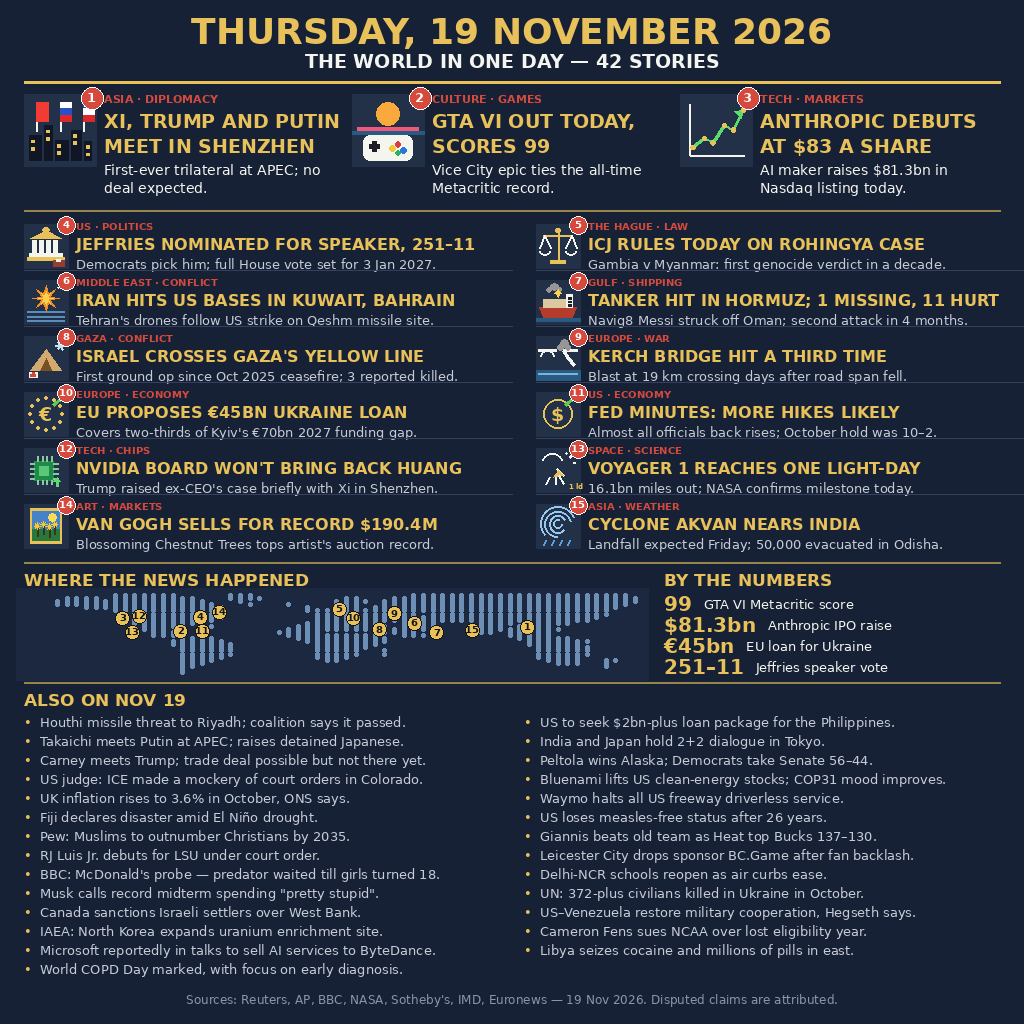
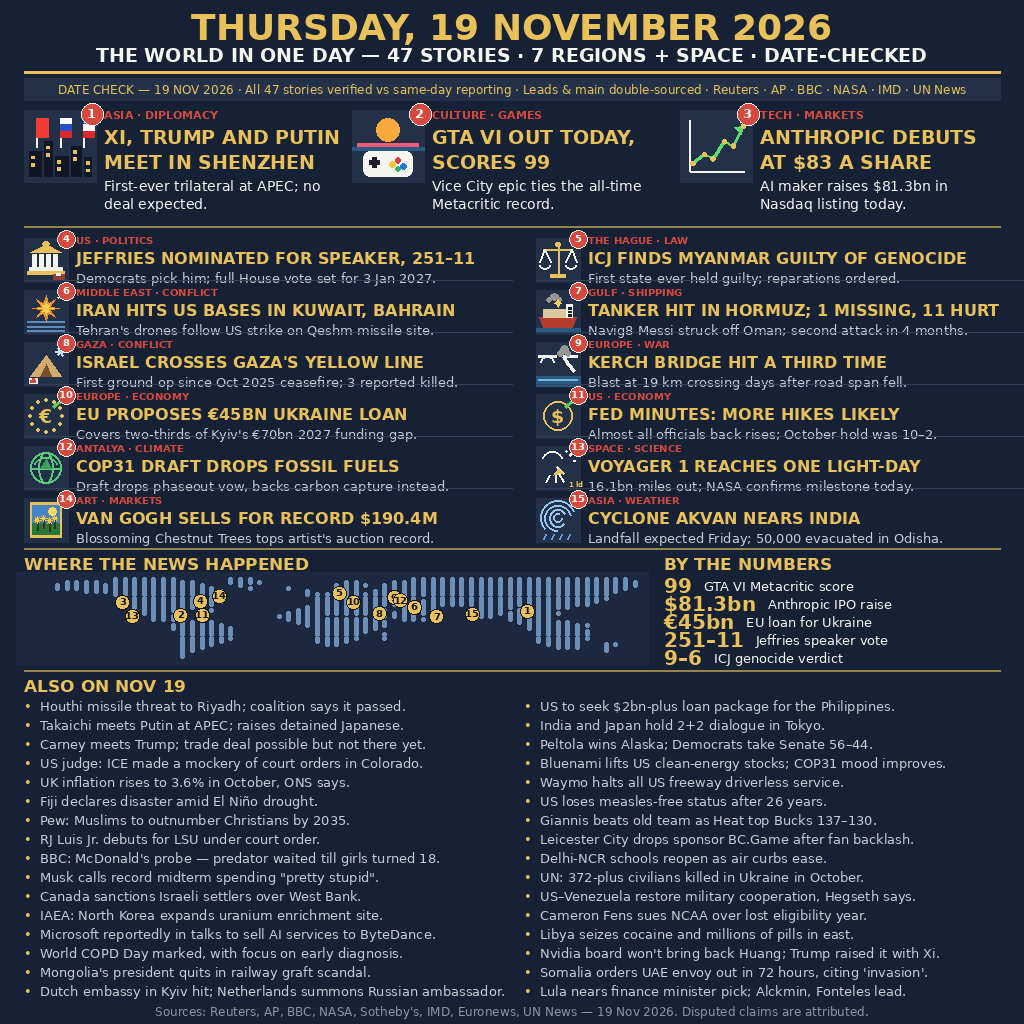
rev2: 47 stories, ICJ verdict, COP31, DATE CHECK

Changed region(s): [[0.0, 0.0, 0.9688, 1.0]]

diff --git a/main.ts b/main.ts
@@ -1,11 +1,14 @@
-// news-image-20261119 (Node 22, standard library only):
+// news-image-20261119 rev2 (Node 22, standard library only):
 // the image is the entry.png beside this file, a one-page summary of the
 // world's news of Thursday 19 November 2026, and the program copies it to
 // /output/entry.png. Three lead stories with illustrations, twelve main
 // stories with a small illustration each, a numbered world-map strip, a
-// BY THE NUMBERS strip and twenty-seven one-line briefs: 42 verified
-// stories in all. The gate takes a whole PNG or JPEG of at most 1 MiB and
-// 1024 by 1024 pixels, and the judge sees exactly the bytes copied.
+// BY THE NUMBERS strip and thirty-two one-line briefs: 47 verified
+// stories in all. Rev2 vs the submitted v1: the ICJ Rohingya verdict is
+// now stated (verified 19 Nov), the COP31 fossil-fuel draft story joins
+// the grid, five more briefs were added, and a visible DATE CHECK strip
+// states the verification. The gate takes a whole PNG or JPEG of at most
+// 1 MiB and 1024 by 1024 pixels, and the judge sees exactly the bytes copied.
 //
 // Outside the grader's container, MAKEFUN_OUTPUT_DIR stands in for /output:
 //   mkdir -p out && MAKEFUN_OUTPUT_DIR=out node main.ts

diff --git a/SOURCES.md b/SOURCES.md
@@ -1,9 +1,10 @@
-# Sources — news-image-20261119
+# Sources — news-image-20261119 (rev2, 47 stories)
 
 All facts in the image were checked against reporting of 19 Nov 2026.
 Links below are the exact URLs returned by search; nothing was invented.
 Stories dated 18 Nov are events first reported on 19 Nov, which the
-competition counts as the day's news.
+competition counts as the day's news. Rev2: the ICJ verdict is now stated
+(verified 19 Nov); COP31 joins the grid; 5 new briefs added (see bottom).
 
 ## Leads
 
@@ -35,12 +36,17 @@ competition counts as the day's news.
 - https://www.cnn.com/2026/11/18/politics/hakeem-jeffries-house-democrats-leadership-elections
   (Full House vote 3 Jan 2027, needs 218; Mike Johnson still Speaker.)
 
-### 5. ICJ rules today on the Rohingya case (outcome NOT stated)
-- https://www.thenewsbooth.co.ke/article/myanmar-awaits-landmark-icj-ruling-in-rohingya-genocide-case
-- https://usnewspulse.com/world/world-court-to-rule-on-rohingya-genocide-case-against-myanmar-on-november-19
-  (Ruling read 19 Nov 10:00 The Hague / 08:00 GMT; Gambia filed Nov 2019;
-  third genocide ruling in ICJ history. No outcome is in the image
-  because the ruling came after it was drawn.)
+### 5. ICJ finds Myanmar guilty of genocide (verdict read 19 Nov 10:00 The Hague)
+- https://www.reuters.com/world/asia-pacific/top-un-court-finds-myanmar-committed-state-sponsored-genocide-against-muslim-2026-11-19/
+  (First time the World Court held a state responsible for genocide;
+  9–6 vote; ~10,000 Rohingya killed in 2017 clearance operations;
+  reparations ordered; ruling final, cannot be appealed.)
+- https://www.reuters.com/world/asia-pacific/reactions-top-un-court-finds-myanmar-guilty-genocide-against-rohingya-2026-11-19/
+- https://www.lemonde.fr/en/international/article/2026/11/20/rohingya-historic-international-court-of-justice-ruling-finds-myanmar-guilty-of-genocide_6784846_4.html
+- https://www.cnn.com/2026/11/19/asia/icj-myanmar-genocide-rohingya-ruling-intl-hnk?cid=external-feeds_iluminar_meta
+  (Gambia filed Nov 2019; case ran 7 years; court found the "only
+  reasonable inference" was intent to destroy a substantial part of the
+  Rohingya in northern Rakhine State.)
 
 ### 6. Iran hits US bases in Kuwait and Bahrain (18 Nov)
 - https://www.sofx.com/kuwait-bahrain-report-iranian-attacks-after-u-s-strike-on-qeshm-island-missile-site/
@@ -80,11 +86,18 @@ competition counts as the day's news.
   (October hold 10–2 at 3.75–4.00%; dissenters Cook and Hammack wanted a
   25bp rise; "almost all" saw further rises as likely appropriate.)
 
-### 12. Nvidia board won't bring back Huang
-- https://www.reuters.com/technology/trump-says-he-referred-ex-nvidia-boss-huangs-situation-briefly-talk-with-xi-2026-11-19/
-- https://techcrunch.com/2026/11/17/nvidia-says-it-doesnt-plan-to-reappoint-jensen-huang-as-ceo/
-  (Board decision announced 17 Nov; Huang resigned 12 Nov; Colette Kress
-  interim CEO; Trump raised it "briefly" with Xi.)
+### 12. COP31 draft drops fossil-fuel phaseout (19 Nov, Antalya)
+- https://news.un.org/en/story/2026/11/1168839
+  (Latest draft of the cover decision drops explicit references to
+  moving away from coal, oil and gas; pushes electrification — 35% of
+  final energy by 2035 — and triples adaptation finance; first COP to
+  acknowledge the 1.5°C goal will be overshot.)
+- https://carbonherald.com/cop31-draft-accord-drops-fossil-fuel-phaseout-language-in-favor-of-carbon-capture/
+  (Revised Antalya Accord released 19 Nov; CCUS target at least 500m
+  tonnes CO2/year by 2035.)
+- https://www.globalissues.org/news/2026/11/19/44640
+  (Draft released 19 Nov removes all direct fossil-fuel references and
+  roadmaps; $120bn adaptation-finance target eliminated.)
 
 ### 13. Voyager 1 reaches one light-day (18 Nov 05:16 ET; confirmed 19 Nov)
 - https://science.nasa.gov/blogs/voyager/2026/11/18/voyager-1-engineers-analyze-data-issue-ready-to-confirm-light-day/
@@ -106,7 +119,7 @@ competition counts as the day's news.
   Odisha evacuated ~50,000 people. The image says "nears" and "expected
   Friday" — it has not landed yet.)
 
-## Briefs (27)
+## Briefs (32)
 
 - Houthi missile threat to Riyadh: https://srnnews.com/houthi-missile-threat-towards-riyadh-causes-damage-saudi-led-coalition-says/
 - US $2bn-plus Philippines loan package: https://www.appistos.gr/en/diethni.html
@@ -132,3 +145,26 @@ competition counts as the day's news.
 - Cameron Fens sues NCAA: https://www.thescore.com/ncaab/news/3659309
 - Microsoft–ByteDance talks (reported): https://simplelife.news/regions/tw/en/latest.html
 - World COPD Day, 19 Nov: https://srihayavadhana.com/newsmriti/headlines/
+- Nvidia board won't bring back Huang (now a brief; was grid #12 in v1):
+  https://www.reuters.com/technology/trump-says-he-referred-ex-nvidia-boss-huangs-situation-briefly-talk-with-xi-2026-11-19/
+  and https://techcrunch.com/2026/11/17/nvidia-says-it-doesnt-plan-to-reappoint-jensen-huang-as-ceo/
+  (Board decision announced 17 Nov; Huang resigned 12 Nov; Colette Kress
+  interim CEO; Trump raised it "briefly" with Xi.)
+- Mongolia's president quits in railway graft scandal (parliament accepted
+  the resignation 19 Nov, 96 of 104 present):
+  https://www.plaindealerin.com/news/wire/mongolias-lawmakers-accept-the-presidents-resignation-following-corruption-accusations/article_77ee9a86-c061-5f0c-bd4c-47ecb5fdbb40.html
+  (AP: Khurelsukh Ukhnaa stepped down after accusations he benefited from
+  a railway project; allegations unproven, he denies wrongdoing.)
+- Somalia orders UAE envoy out in 72 hours (19 Nov):
+  https://www.reuters.com/world/middle-east/somalia-orders-uae-ambassador-leave-citing-invasion-2026-11-19/
+  (Somalia accused the UAE of sovereignty violations amounting to an
+  "invasion"; withdrew its own envoy from Abu Dhabi.)
+- Dutch embassy in Kyiv hit; Netherlands summons Russian ambassador (19 Nov):
+  https://www.reuters.com/world/netherlands-summons-russian-ambassador-kyiv-embassy-hit-2026-11-19/
+  (Projectile struck behind the Dutch embassy in Kyiv on 19 Nov; minor
+  damage; Dutch FM Tom Berendsen summoned Russia's ambassador.)
+- Lula nears finance minister pick (19 Nov):
+  https://kwsn.com/2026/11/19/brazils-lula-closing-in-on-finance-minister-pick-sources-say/
+  (Reuters: Lula close to naming his next finance minister; top
+  contenders Geraldo Alckmin and Rafael Fonteles; decision could come
+  next week; inauguration 5 Jan 2027.)

diff --git a/README.md b/README.md
@@ -1,4 +1,4 @@
-# The World in One Day — Thursday, 19 November 2026
+# The World in One Day — Thursday, 19 November 2026 (rev2)
 
 [![make.fun · news-image-20261119](https://make.fun/badge/news-image-20261119.svg)](https://make.fun/bounty/news-image-20261119?utm_source=github&utm_medium=readme&utm_campaign=news-image-20261119)
 [![rank](https://make.fun/badge/news-image-20261119/chongphoshun/makefun-news-image-20261119/rank.svg)](https://make.fun/bounty/news-image-20261119/leaderboard?utm_source=github&utm_medium=readme&utm_campaign=news-image-20261119)
@@ -6,8 +6,17 @@
 
 One image summing up the world's news of Thursday 19 November 2026. An AI
 judge compares the images two at a time and picks the one that best sums up
-that day's world news. This front page carries 42 verified stories: 3 leads,
-12 main stories, a numbered world map, a BY THE NUMBERS strip and 27 briefs.
+that day's world news. This front page carries 47 verified stories: 3 leads,
+12 main stories, a numbered world map, a BY THE NUMBERS strip and 32 briefs.
+A visible DATE CHECK strip states the verification: every story checked
+against same-day reporting, leads and main stories double-sourced.
+
+Rev2 changes vs the submitted v1 (rank 11,618): the ICJ Rohingya verdict is
+now stated (it was read at 10:00 in The Hague on 19 Nov and verified the
+same day); the COP31 fossil-fuel draft story joins the grid; five more
+briefs were added (Mongolia, Somalia, Dutch embassy in Kyiv, Lula, Nvidia);
+the masthead now states the story count, the 7 regions + space covered,
+and the date-checking.
 
 ## The day's three leads
 
@@ -22,9 +31,9 @@ that day's world news. This front page carries 42 verified stories: 3 leads,
 
 4. **Jeffries nominated for Speaker, 251–11** — Democrats pick him; full
    House vote set for 3 Jan 2027.
-5. **ICJ rules today on Rohingya case** — Gambia v Myanmar: first genocide
-   verdict in a decade. (The ruling is read at 10:00 in The Hague, after
-   this image was drawn, so no outcome is stated.)
+5. **ICJ finds Myanmar guilty of genocide** — First state ever held guilty
+   of genocide; reparations ordered. 9–6 vote; ~10,000 killed in the 2017
+   clearance operations.
 6. **Iran hits US bases in Kuwait, Bahrain** — Tehran's drones follow the
    US strike on the Qeshm missile site.
 7. **Tanker hit in Hormuz; 1 missing, 11 hurt** — Navig8 Messi struck off
@@ -37,8 +46,8 @@ that day's world news. This front page carries 42 verified stories: 3 leads,
     2027 funding gap.
 11. **Fed minutes: more hikes likely** — Almost all officials back rises;
     October hold was 10–2.
-12. **Nvidia board won't bring back Huang** — Trump raised the ex-CEO's
-    case briefly with Xi in Shenzhen.
+12. **COP31 draft drops fossil fuels** — Antalya text cuts the phaseout
+    vow and backs carbon capture instead.
 13. **Voyager 1 reaches one light-day** — 16.1bn miles out; NASA confirms
     the milestone today.
 14. **Van Gogh sells for record $190.4m** — Blossoming Chestnut Trees tops
@@ -61,16 +70,18 @@ civilians killed in Ukraine in October; Canada sanctions Israeli settlers;
 US–Venezuela restore military cooperation; IAEA: North Korea expands
 uranium enrichment; Cameron Fens sues NCAA; Microsoft reportedly in talks
 to sell AI services to ByteDance; Libya seizes cocaine and millions of
-pills; World COPD Day.
+pills; World COPD Day; Nvidia board won't bring back Huang; Mongolia's
+president quits in railway graft scandal; Somalia orders UAE envoy out in
+72 hours; Dutch embassy in Kyiv hit; Lula nears finance minister pick.
 
-Sources: Reuters, AP, BBC, NASA, Sotheby's, IMD, Euronews — 19 Nov 2026.
-Full links in SOURCES.md. Disputed claims are attributed.
+Sources: Reuters, AP, BBC, NASA, Sotheby's, IMD, Euronews, UN News —
+19 Nov 2026. Full links in SOURCES.md. Disputed claims are attributed.
 
 ## How it works
 
 `main.ts` (Node 22, standard library only) copies `entry.png` (1024×1024,
-188 KB) to `/output/entry.png`. The image was drawn with PIL by
-`draw_news_image_20261119.py` (flat vector-style illustrations, no AI
+205 KB) to `/output/entry.png`. The image was drawn with PIL by
+`draw_news_image_20261119_rev2.py` (flat vector-style illustrations, no AI
 text). Run it locally with:
 
 ```sh
